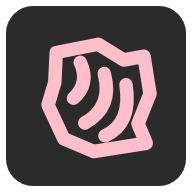
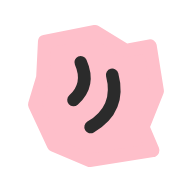
Redraw Flint's mark as a filled stone without a tile
The stone is filled pink with its ripples cut in graphite, like Amber's drop,
so one file sits on either theme and it no longer reads as a shield at small
sizes. The favicons, app icons and link preview are rebuilt from it.

diff --git a/src/routes/+layout.svelte b/src/routes/+layout.svelte
@@ -4,8 +4,7 @@
 	import { onNavigate } from '$app/navigation';
 	import { resolve } from '$app/paths';
 	import { page } from '$app/state';
-	import flintMark from '#lib/flint-mark.svg';
-	import flintMarkOnDark from '#lib/flint-mark-on-dark.svg';
+	import flintMark from '#lib/flint-mark-compact.svg';
 	import lockupOnDark from '#lib/itrium-lockup-on-dark.svg';
 	import lockupOnLight from '#lib/itrium-lockup-on-light.svg';
 	import ThemeChoice from '#lib/ThemeChoice.svelte';
@@ -96,15 +95,14 @@
 <header
 	class="mx-auto flex max-w-6xl items-center justify-between gap-x-4 px-5 py-6 sm:gap-x-6 sm:px-8"
 >
-	<!-- The mark is the same tile in either theme; on a page as dark as the tile, the one with a
-	     faint rim keeps its edge. -->
+	<!-- The mark has no tile, so the same file sits on either theme: the pink stone with its
+	     ripples cut in. At this size it's the compact one, its ripples heavier. -->
 	<a
 		href={resolve('/')}
 		aria-current={home ? 'page' : undefined}
 		class="flex shrink-0 items-center gap-2.5 text-xl font-bold tracking-tight"
 	>
-		<img src={flintMark} alt="" width="40" height="40" class="size-10 dark:hidden" />
-		<img src={flintMarkOnDark} alt="" width="40" height="40" class="hidden size-10 dark:block" />
+		<img src={flintMark} alt="" width="34" height="36" class="h-9 w-auto" />
 		<!-- On the narrowest phones the name gives way to the tools; the mark still says Flint. -->
 		<span class="max-[23rem]:sr-only {home ? 'underline decoration-2 underline-offset-[6px]' : ''}"
 			>{NAME}</span

diff --git a/DESIGN.md b/DESIGN.md
@@ -1037,7 +1037,8 @@ go instead, each row with the arrow.
 The header is the same plain row on every page, in the 72rem column: Flint's mark and name on the
 left, the tools on the right, so a person can go from one tool to the other in one press.
 
-- **Mark:** the same tile in either theme; on a page as dark as the tile, the one with a faint rim.
+- **Mark:** the knapped stone, filled pink with its ripples cut in graphite, and no tile: one file
+  for either theme (the compact one, 36px tall, its ripples heavier).
   Beside it "Flint", bold, underlined on the index (`aria-current="page"`). Below 23rem the name is
   left to screen readers and the tools keep the room; the mark still links home.
 - **Tool links:** each tool's symbol (1.25rem) and its short name ("Split bill", "WhatsApp") in nav
